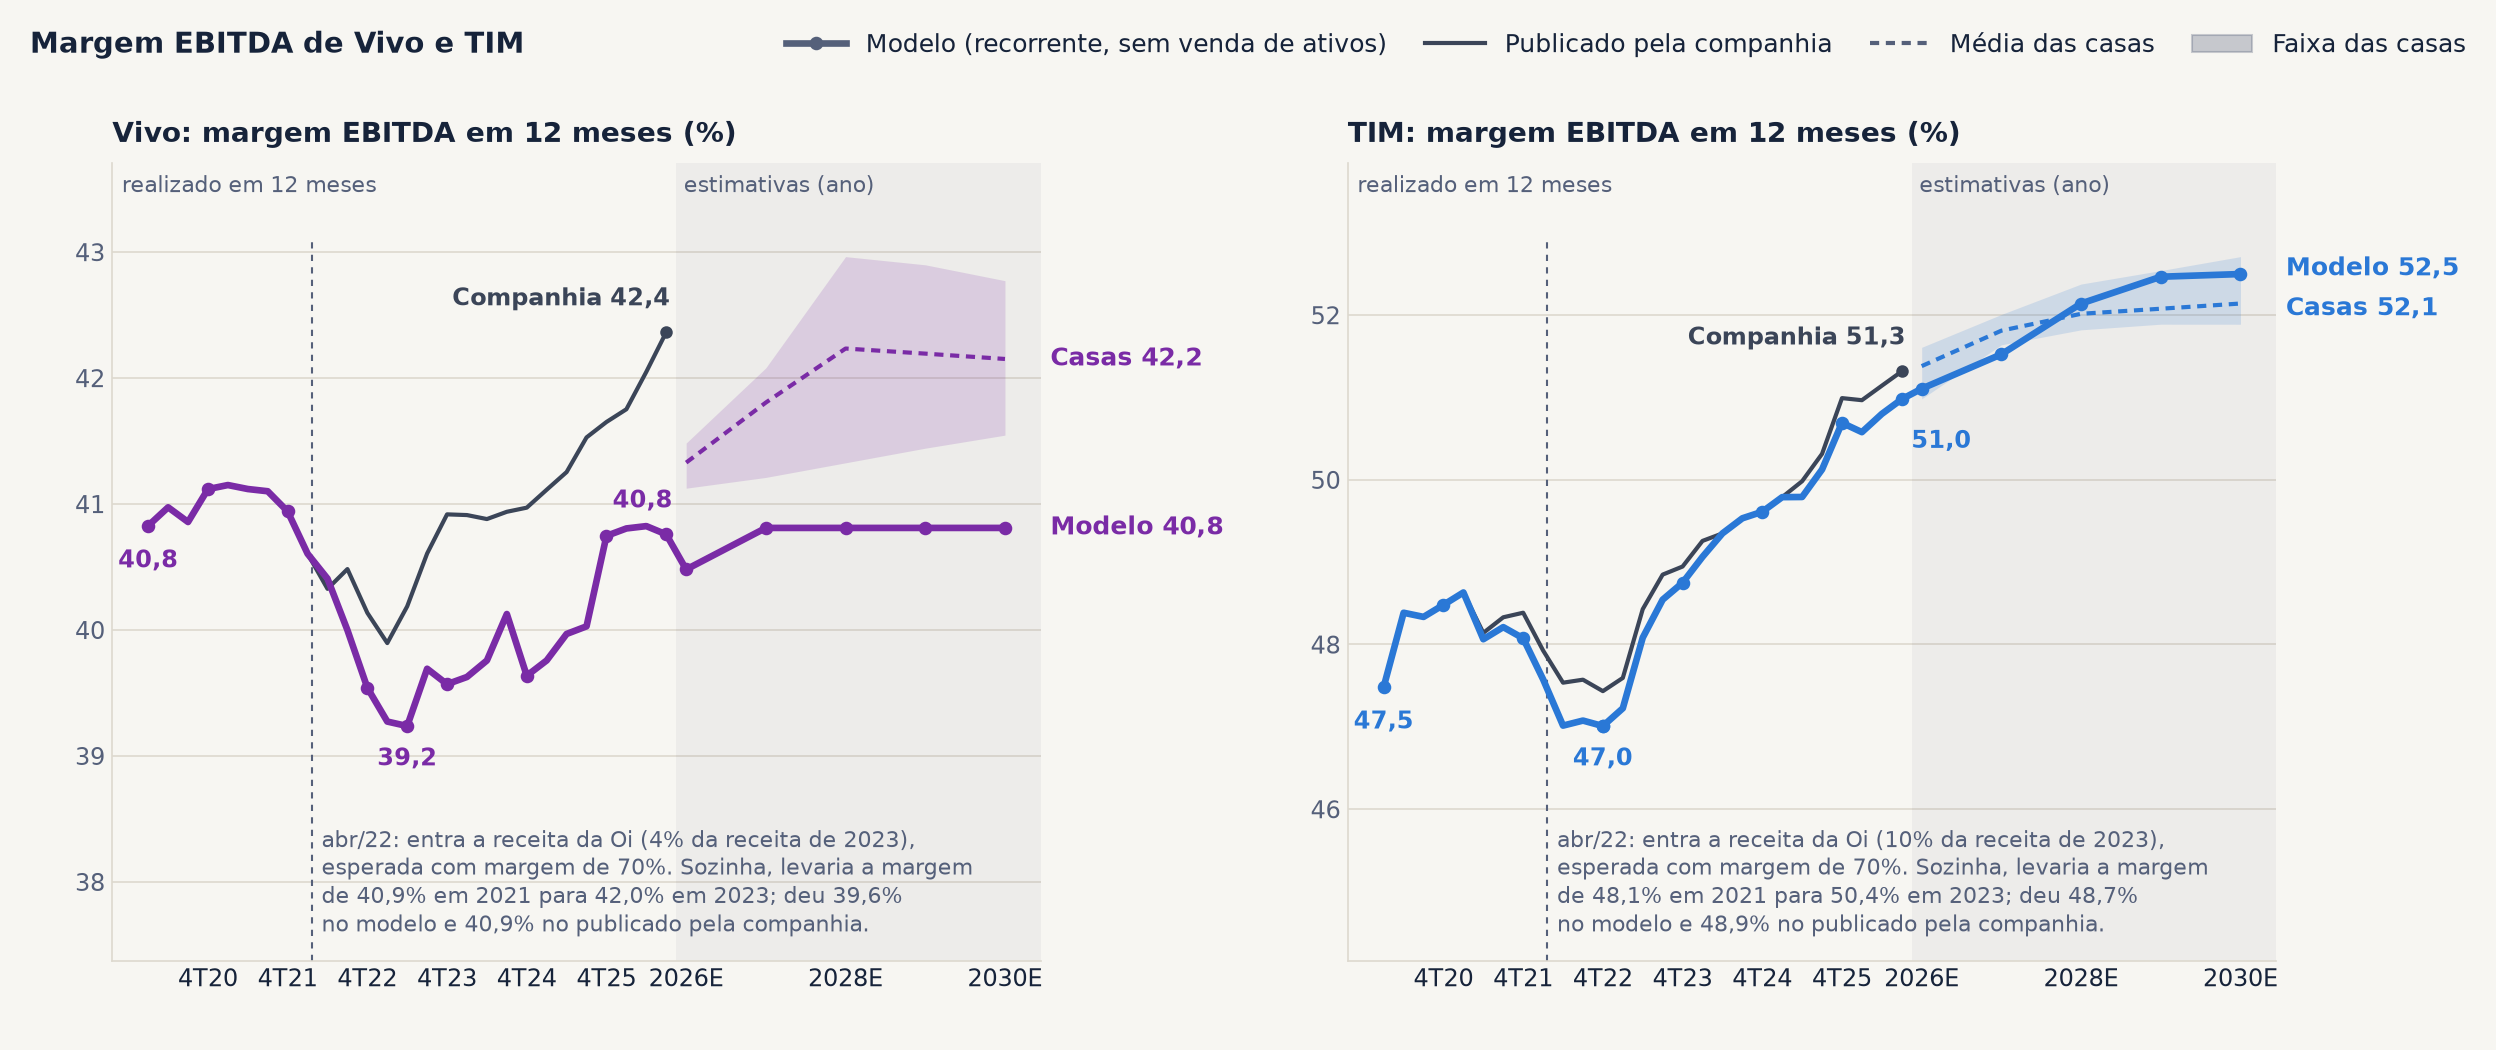
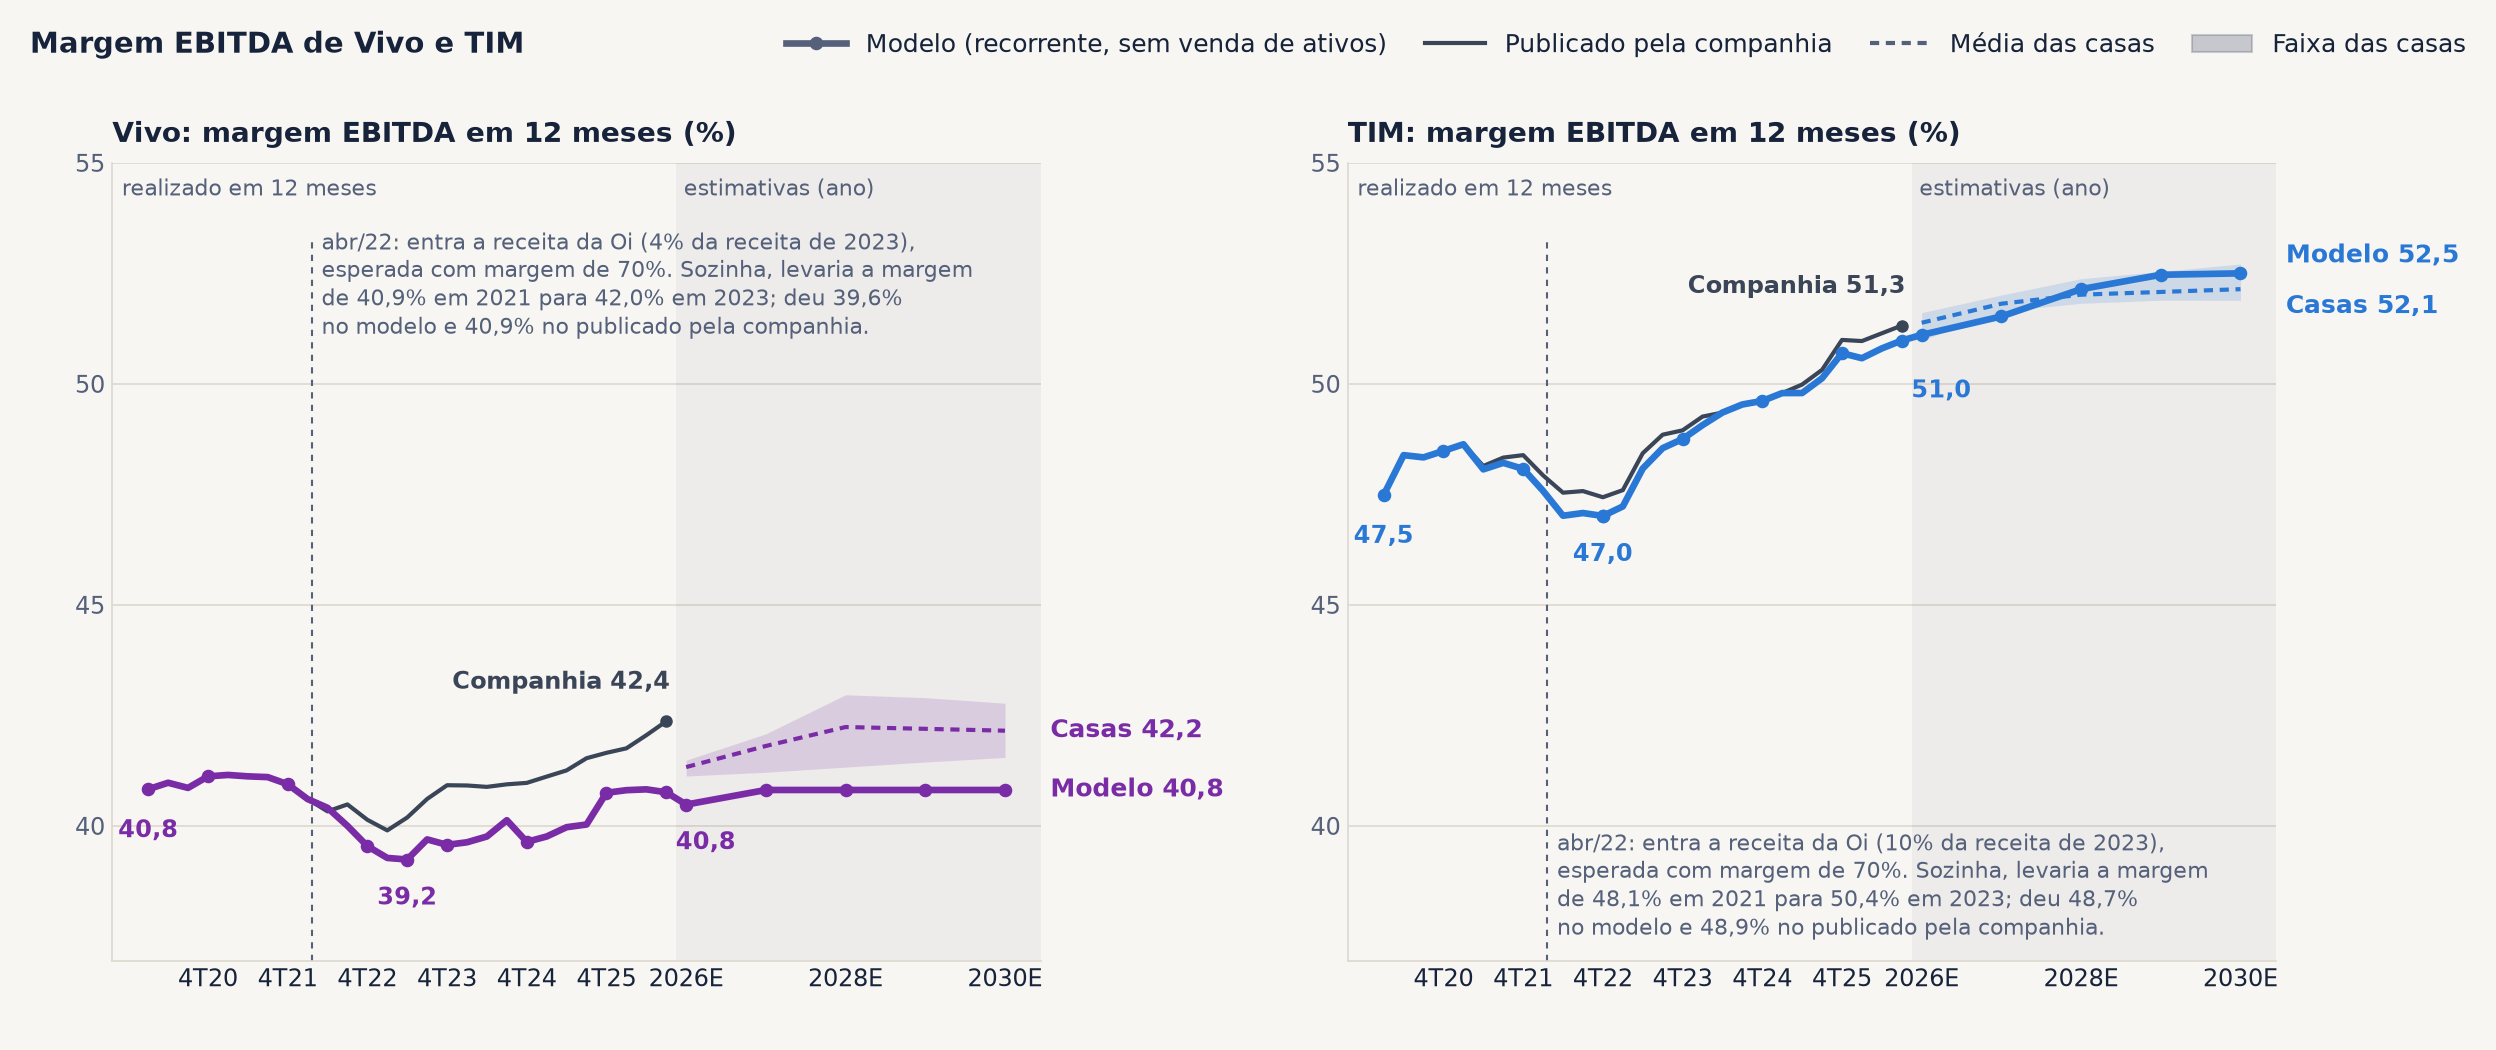
v4.4 - 24/11/2026 21:28 - slide 6 na mesma escala e slide 7 com a ponte da Vivo
Slide 6: Vivo e TIM no mesmo eixo de margem. Slide 7 (novo): tabela da Vivo do
EBITDA publicado ao recorrente, 2019 a 2025 e 12 meses ate o 3T26, com os
ajustes do modelo por natureza.

diff --git a/index.html b/index.html
@@ -40,7 +40,7 @@ h1, h2, h3 { font-family:'Space Grotesk', Arial, sans-serif; }
 <div id="palco">
 <section id="capa" class="capa" data-transition="fade">
 <div>
-<p class="chip">v4.3 · 24/11/2026 21:11</p>
+<p class="chip">v4.4 · 24/11/2026 21:28</p>
 </div>
 <div>
 <h1>Telecom Brasil: Vivo e TIM</h1>
@@ -79,9 +79,16 @@ h1, h2, h3 { font-family:'Space Grotesk', Arial, sans-serif; }
 <section id="margem" data-transition="fade">
 <p class="olho">2 · MARGEM EBITDA EM 12 MESES: MODELO, COMPANHIA E CASAS</p>
 <h2 class="titulo">Margem EBITDA desde 2020: a Oi viria com 70% de margem e 2023 ficou abaixo dessa conta; sem venda de ativos, a Vivo fica 1,6 ponto abaixo do publicado</h2>
-<img class="graf" src="img/v6_margem.png" alt="Dois gráficos, um da Vivo e um da TIM, com a margem EBITDA em 12 meses do 1T20 ao 3T26 em duas linhas, o recorrente do modelo e o número publicado pela companhia, um marcador em abril de 2022 para a entrada da receita da Oi e as estimativas anuais de 2026 a 2030: modelo em linha cheia, média das casas tracejada e a faixa das casas do mínimo ao máximo">
+<img class="graf" src="img/v6_margem.png" alt="Dois gráficos, um da Vivo e um da TIM, com a margem EBITDA em 12 meses do 1T20 ao 3T26 em duas linhas, o recorrente do modelo e o número publicado pela companhia, os dois na mesma escala, um marcador em abril de 2022 para a entrada da receita da Oi e as estimativas anuais de 2026 a 2030: modelo em linha cheia, média das casas tracejada e a faixa das casas do mínimo ao máximo">
 <p class="fonte">Fonte: planilhas de RI e modelos de 24/11/2026. Modelo: EBITDA recorrente, sem venda de ativos e outros não recorrentes. Companhia: EBITDA recorrente (Vivo) e normalizado (TIM), como publicados. Oi: apresentações de abril de 2022 e receita estimada. Casas: Itaú BBA, BBI, BTG, Santander e, na Vivo, UBS (até 2029E).</p>
 <aside>Duas medidas do realizado. Vivo: até 2021 o recorrente do modelo é o recorrente da companhia (41,1% em 2020, 40,9% em 2021); de 2022 em diante a companhia publica o recorrente igual ao contábil e o modelo tira a venda de ativos e outros itens. Modelo: 39,5% em 2022, 39,6% em 2023 e 2024, 40,7% em 2025 e 40,8% no 3T26, com piso de 39,2% no 2T23. Companhia: 40,1% em 2022, 40,9% em 2023, 41,0% em 2024, 41,7% em 2025 e 42,4% no 3T26. A diferença vai de 0,6 ponto em 2022 a 1,3 em 2023 e 2024, 0,9 em 2025 e 1,6 no 3T26. TIM: o modelo parte do normalizado da companhia e recusa alguns ajustes; modelo 48,5% em 2020, 48,1% em 2021, 47,0% em 2022, 48,7% em 2023, 49,6% em 2024, 50,7% em 2025 e 51,0% no 3T26; companhia 48,4% em 2021, 47,4% em 2022, 48,9% em 2023, 49,6% em 2024, 51,0% em 2025 e 51,3% no 3T26 (diferença de zero a 0,4 ponto). Estimativas: o modelo põe a Vivo em 40,5% em 2026E e 40,8% de 2027E a 2030E, contra média das casas de 41,3% em 2026E, 41,8% em 2027E e 42,2% de 2028E a 2030E (faixa de 41,5% a 42,8% em 2030E); a TIM em 51,1%, 51,5%, 52,1%, 52,5% e 52,5%, contra 51,4%, 51,8%, 52,0%, 52,1% e 52,1% nas casas (faixa de 51,9% a 52,7% em 2030E). Na Vivo, a média das casas para 2026E (41,3%) fica entre o modelo (40,5%) e o que a companhia já publica em 12 meses (42,4%): boa parte da distância do modelo para o consenso é a definição do EBITDA, e a base de cada casa não foi conferida. Oi: a compra fechou em 20/04/2022. A Vivo apresentou a base recebida com margem EBITDA acima de 70% no ritmo de sinergias; a TIM, 61% em 2022 e margem de contribuição na casa dos 70 em 2024; a Claro, 74% a 75%. A receita recebida é estimativa do estudo de 18/11/2026: cerca de R$ 1,9 bilhão por ano na Vivo (3,7% da receita líquida de 2023) e R$ 2,5 bilhões na TIM (10,4%). Conta: receita da Oi a 70% e o resto da receita na margem de 2021. Vivo: de 40,9% para 42,0% em 2023; deu 39,6% no modelo e 40,9% na companhia, o que implica margem de 38,4% no negócio sem a Oi, 2,5 pontos abaixo de 2021. TIM: de 48,1% para 50,4%; deu 48,7% no modelo e 48,9% na companhia (a conta pela base da companhia dá 50,6%), o que implica 46,3% sem a Oi, 1,8 ponto abaixo de 2021; a TIM só passa de 50,4% em 2025. No mesmo período o corte do ICMS (julho de 2022) também elevou a receita líquida. Os pontos realizados são a margem acumulada em quatro trimestres; os estimados são a margem do ano. A série desde 2010, com a quebra do IFRS 16 em 2019, saiu do slide a pedido.</aside>
+</section>
+<section id="margem-vivo" data-transition="fade">
+<p class="olho">2 · VIVO: DO EBITDA PUBLICADO AO RECORRENTE</p>
+<h2 class="titulo">Vivo: sem os ganhos pontuais, a margem EBITDA está em 40,8%, o nível de 2019 a 2021; a alta publicada para 42,4% vem de cobre, imóveis, acordos e créditos</h2>
+<img class="graf" src="img/v6b_margem_vivo.png" alt="Tabela da Vivo de 2019 a 2025 e em 12 meses até o 3T26: receita líquida, EBITDA e margem publicados pela companhia, os ajustes do modelo em seis linhas (venda de ativos, créditos de PIS/COFINS, acordos da compra da Oi, reversão de provisões, remensuração da FiBrasil e precatórios do DER/SP, custos pontuais devolvidos), EBITDA e margem recorrentes do modelo e a diferença de margem">
+<p class="fonte">Fonte: planilha de RI, ITR e DFP da Vivo (notas de outras receitas operacionais) e modelo de 24/11/2026. De 2019 a 2021 o recorrente é o da própria companhia; de 2022 em diante ela publica o recorrente igual ao contábil e os ajustes são do modelo.</p>
+<aside>Margem recorrente: 40,5% em 2019, 41,1% em 2020, 40,9% em 2021, 39,5% em 2022, 39,6% em 2023 e 2024, 40,7% em 2025 e 40,8% em 12 meses até o 3T26. Margem publicada: 40,5%, 41,1%, 40,9%, 40,1%, 40,9%, 41,0%, 41,7% e 42,4%. A receita líquida foi de R$ 44,3 bilhões em 2019 para R$ 62,8 bilhões em 12 meses e o EBITDA recorrente de R$ 17,9 bilhões para R$ 25,6 bilhões: o EBITDA cresce com a receita, sem ganho de margem. Ajustes por ano. 2022: crédito de PIS/COFINS por decisão judicial de 396,7 (301,4 no 3T22 e 95,3 no 4T22; a companhia não tratou como não recorrente) e devolução de 111 de custo temporário do contrato de transição da Oi (37 por trimestre). 2023: crédito de PIS/COFINS de 276,7 (59,2, 147,3 e 70,2 nos três primeiros trimestres); acordo com a Oi, reversão de metade da retenção do ajuste pós-fechamento, 244,2 no 3T23; acordo com as torreiras das torres da Oi, 292,0 líquido de PIS/COFINS no 4T23; multas por desligamento de torres, -69,5; devolução de 37 do contrato de transição e 4 de PDD pontual. 2024: venda de ativos de 332 (31 no 2T24, 95 no 3T24 e 206 no 4T24); reversão de provisões regulatórias da migração da concessão, 386,4 no 4T24; anistia de São Paulo, 26,8. 2025: venda de ativos de 362,5; ganho de remensuração de 134,9 (FiBrasil 128,75 e Vivo Ventures 6,15) no 4T25; anistias, 41,4. Doze meses até o 3T26: venda de ativos de 755,4 (102,1, 86,3, 201,5 e 365,5 por trimestre); precatórios do DER/SP a valor presente, 119,2 no 3T26; remensuração de 134,9 do 4T25; anistias, 27,4; devolução de 28 de PDD de um cliente corporativo no 1T26. O programa de venda de cobre e imóveis da migração da concessão tem meta de R$ 4,5 bilhões até 2028, com cerca de R$ 1,0 bilhão realizado até o 3T26: a diferença entre a margem publicada e a recorrente tende a crescer. Em 2021 a companhia já excluía do seu recorrente R$ 979,9 milhões (crédito de PIS/COFINS líquido de contingências, 563,3, e fechamento da FiBrasil, 416,6); a margem contábil de 2021 foi 43,2%. Cada ajuste está no comentário da célula do modelo, com a nota do ITR ou da DFP.</aside>
 </section>
 <section id="ebitda-cresc" data-transition="fade">
 <p class="olho">3 · CRESCIMENTO DO EBITDA</p>

diff --git a/README.md b/README.md
@@ -1,3 +1,3 @@
 # Telecom Brasil: Vivo e TIM
 
-Deck de telecom (v4.3 · 24/11/2026 21:11): o setor contra a inflação e o PIB, receita, margem, EBITDA, capex e arrendamento, lucro, payout, Fistel e valuation de Vivo e TIM.
+Deck de telecom (v4.4 · 24/11/2026 21:28): o setor contra a inflação e o PIB, receita, margem, EBITDA, capex e arrendamento, lucro, payout, Fistel e valuation de Vivo e TIM.
